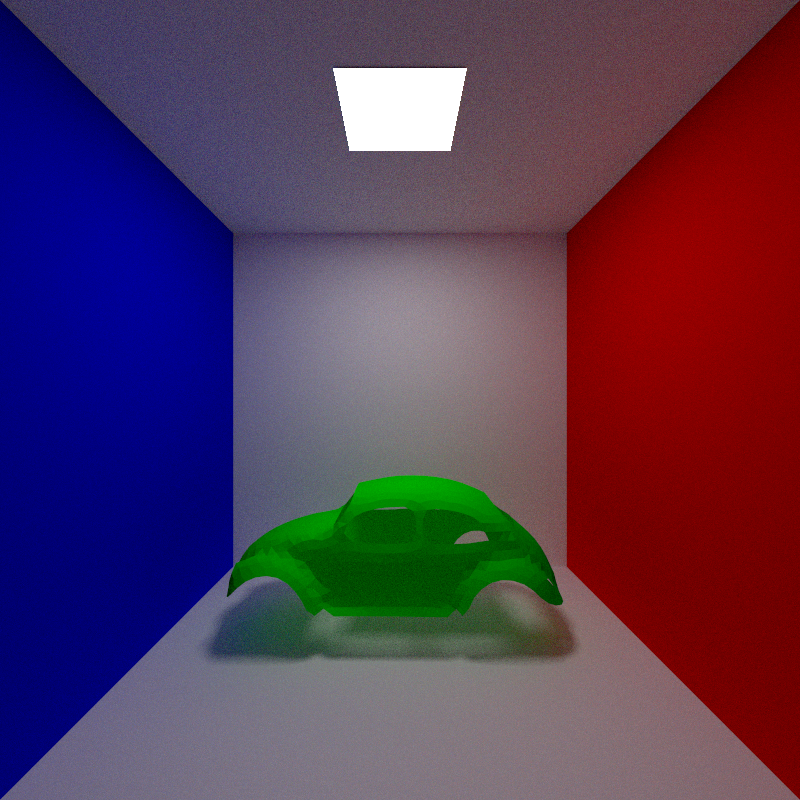
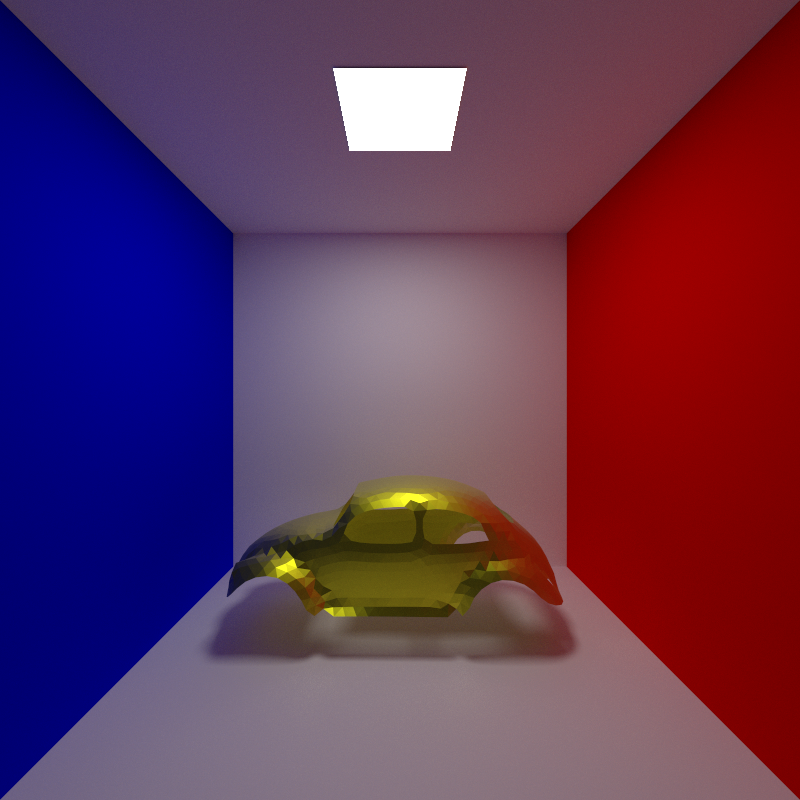
1.61

Changed region(s): [[0.25, 0.5625, 0.7188, 0.8438], [0.7188, 0.625, 0.8125, 0.75]]

diff --git a/RayTracing/RayTracing.cpp b/RayTracing/RayTracing.cpp
@@ -26,10 +26,7 @@ using std::make_unique;
 using std::shared_ptr;
 using std::vector;
 
-
-
-
-void Cornellbox(shared_ptr<Scene> &scene)
+void Cornellbox(shared_ptr<Scene> &scene, Transform &lookat)
 {
 	shared_ptr<Texture<Float>> bump = make_shared<ConstantTexture<Float>>(0.0f);
 	Spectrum purple; purple[0] = 0.35; purple[1] = 0.12; purple[2] = 0.48;
@@ -73,7 +70,7 @@ void Cornellbox(shared_ptr<Scene> &scene)
 	tri_World2ObjectTri = Inverse(tri_Object2WorldTri);
 	std::vector<std::shared_ptr<Shape>> tris = CreateTriangleMesh(&tri_Object2WorldTri, &tri_World2ObjectTri, false, nTriangles, vertexIndices, nVertices, P, nullptr, nullptr, nullptr, nullptr);
 	for (int i = 0; i < nTriangles; ++i)
-		prims.push_back(make_shared<GeometricPrimitive>(tris[i], mgreen, area));
+		prims.push_back(make_shared<GeometricPrimitive>(tris[i], metal, area));
 	delete []P;
 	delete []vertexIndices;
 
@@ -153,9 +150,14 @@ void Cornellbox(shared_ptr<Scene> &scene)
 
 	scene=make_shared<Scene>(make_shared<BVHAccel>(prims), lights);
 
+	Point3f eye(2.5f, 2.5f, 6.0f);
+	Point3f look(2.5f, 2.5f, 0.0f);
+	Vector3f up(0.0f, 1.0f, 0.0f);
+	lookat = LookAt(Vector3f(eye), Vector3f(look), up);
+
 }
 
-void MetalRoughSphere(shared_ptr<Scene> &scene)
+void MetalRoughSphere(shared_ptr<Scene> &scene,Transform &lookat)
 {
 	Spectrum LightColor(1.0f, 1.0f, 1.0f);
 	shared_ptr<Texture<Float>> sigma = make_shared<ConstantTexture<Float>>(0.0f);
@@ -172,25 +174,7 @@ void MetalRoughSphere(shared_ptr<Scene> &scene)
 	shared_ptr<Light>infinityLight = make_shared<InfiniteAreaLight>(InfinityLightToWorld,power,10,hdrFile);
 	lights.push_back(infinityLight);
 
-	//const float yPos_AreaLight = -16;
-	//float len = 10;
-	//int nTrianglesAreaLight = 2;
-	//int vertexIndicesAreaLight[6] = { 0,1,2,3,4,5 };
-	//int nVerticesAreaLight = 6;
-	//Point3f P_AreaLight[6] = {
-	//		Point3f(-len,yPos_AreaLight,len),Point3f(-len,yPos_AreaLight,-len),Point3f(len,yPos_AreaLight,len),
-	//		Point3f(len,yPos_AreaLight,len),Point3f(-len,yPos_AreaLight,-len),Point3f(len,yPos_AreaLight,-len) };
-	//Transform tri_Object2World_AreaLight;
-	//tri_Object2World_AreaLight = Translate(Vector3f(2.5f, 0.0f, 2.5f))*tri_Object2World_AreaLight;
-	//Transform tri_World2Object_AreaLight = Inverse(tri_Object2World_AreaLight);
-	//std::vector<std::shared_ptr<Shape>> meshAreaLight = CreateTriangleMesh(&tri_Object2World_AreaLight, &tri_World2Object_AreaLight, false, nTrianglesAreaLight, vertexIndicesAreaLight, nVerticesAreaLight, P_AreaLight, nullptr, nullptr, nullptr, nullptr);
-	//for (int i = 0; i < nTrianglesAreaLight; ++i)
-	//{
-	//	area = make_shared<DiffuseAreaLight>(tri_Object2World_AreaLight, Spectrum(7.f), 5, meshAreaLight[i], true);
-	//	lights.push_back(area);
-	//	prims.push_back(make_shared<GeometricPrimitive>(meshAreaLight[i], m1, area));
-	//}
-	Transform tri_ObjectWorldModel = RotateX(90);
+	Transform tri_ObjectWorldModel = RotateZ(180)*RotateY(180)*RotateX(-90);
 	//Transform tri_ObjectWorldModel = Translate(Vector3f(0.f,2.f,0.f))*RotateY(-30)*Scale(3, 3, 3);
 	ModelLoad ML;
 	string metalroughsphere = "C:\\glTF-Sample-Models-master\\2.0\\MetalRoughSpheres\\glTF\\MetalRoughSpheres.gltf";
@@ -198,49 +182,30 @@ void MetalRoughSphere(shared_ptr<Scene> &scene)
 	ML.loadModel(metalroughsphere, tri_ObjectWorldModel);
 	Spectrum black(1.f, 1.f, 1.f);
 	shared_ptr<Material> mblack = make_shared<MatteMaterial>(make_shared<ConstantTexture<Spectrum>>(black), sigma, bump);
-	ML.buildNoTextureModel(tri_ObjectWorldModel, prims, mblack);
+	//ML.buildNoTextureModel(tri_ObjectWorldModel, prims, mblack);
+	ML.buildTextureModel(tri_ObjectWorldModel, prims);
 	scene = make_shared<Scene>(make_shared<BVHAccel>(prims), lights);
+
+	Vector3f up(0.0f, 1.0f, 0.0f);
+	//lookat = LookAt(Vector3f(2.f, 3.f, 3.0f), Vector3f(0.f, 2.f, 0.0f), up);
+	lookat = LookAt(Vector3f(0.f, 0.f, 24.0f), Vector3f(0.f, 0.f, 0.0f), up);
+	//lookat = LookAt(Vector3f(0.f, 0.f, -24.0f), Vector3f(0.f, 0.f, 0.0f), up);
 }
 
 int main()
 {
-	//std::ofstream fout("image.ppm");
-
-	// Image
-	//auto aspect_ratio = 1;
-	//int image_width = 300;
-	//int samples_per_pixel = 100;
-	//int max_depth = 50;
-
-	// World
-	//hittable_list world;
-	//Vector3f lookfrom;
-	//Vector3f lookat;
-	//auto vfov = 40.0;
-	//auto aperture = 0.0;
-	//color background(0, 0, 0);
-
-	// Render
-	//const int image_height = static_cast<int>(image_width / aspect_ratio);
-	//fout << "P3\n" << image_width << ' ' << image_height << "\n255\n";
-
 	std::shared_ptr<Scene>worldScene;
-	Cornellbox(worldScene);
-	//MetalRoughSphere(worldScene);
-	//worldScene = std::make_unique<Scene>(make_unique<BVHAccel>(prims),lights);
+	Transform lookat;
+	Cornellbox(worldScene, lookat);
+	//MetalRoughSphere(worldScene,lookat);
 
-	shared_ptr<Camera> cam;
-	Point3f eye(2.5f, 2.5f, 6.0f);
-	Point3f look(2.5f, 2.5f, 0.0f);
-	Vector3f up(0.0f, 1.0f, 0.0f);
-	Transform lookat = LookAt(Vector3f(eye), Vector3f(look), up);
-	//Transform lookat = LookAt(Vector3f(0.f, 0.f, 21.0f), Vector3f(0.f, 0.f, 0.0f), up);
-	//Transform lookat = LookAt(Vector3f(2.f, 3.f, 3.0f), Vector3f(0.f, 2.f, 0.0f), up);
 	Transform Camera2World = Inverse(lookat);
 
-	int image_width=800, image_height=800;
-	cam = shared_ptr<Camera>(CreatePerspectiveCamera(Camera2World, image_width, image_height));
-	shared_ptr<Sampler> ss = make_unique<StratifiedSampler>(8,8,true,1);
+	int image_width=1920, image_height=1080;
+	image_width = 800, image_height = 800;
+	shared_ptr<Camera> cam = shared_ptr<Camera>(CreatePerspectiveCamera(Camera2World, image_width, image_height));
+	
+	shared_ptr<Sampler> ss = make_unique<StratifiedSampler>(32,32,true,1);
 	Bounds2i pixelBounds;
 	shared_ptr<Integrator>wSI=make_shared<WhittedIntegrator>(5,cam,ss, pixelBounds);
 	shared_ptr<Integrator>pSI = make_shared<PathIntegrator>(10, cam, ss, pixelBounds,1.f);

diff --git a/RayTracing/include/core/modelload.cpp b/RayTracing/include/core/modelload.cpp
@@ -11,15 +11,8 @@ void ModelLoad::processNode(aiNode *node, const aiScene *scene, const Transform 
 		aiMesh *mesh = scene->mMeshes[node->mMeshes[i]];
 		meshes.push_back(processMesh(mesh, scene, ObjectToWorld));
 
-		aiMaterial* material = scene->mMaterials[mesh->mMaterialIndex];
-		for (unsigned int i = 0; i < material->GetTextureCount(aiTextureType_DIFFUSE); ++i)
-		{
-			aiString str;
-			material->GetTexture(aiTextureType_DIFFUSE, i, &str);
-			string filename = str.C_Str();
-			texName.push_back(filename);
-		}
 	}
+
 	for (unsigned int i = 0; i < node->mNumChildren; ++i)
 		processNode(node->mChildren[i], scene, ObjectToWorld);
 
@@ -28,11 +21,14 @@ void ModelLoad::processNode(aiNode *node, const aiScene *scene, const Transform 
 void ModelLoad::loadModel(std::string path, const Transform &ObjectToWorld)
 {
 	Assimp::Importer import;
-	const aiScene *scene = import.ReadFile(path, aiProcess_Triangulate | aiProcess_FlipUVs);
-	std::cout << import.GetErrorString() << std::endl;;
+	const aiScene *scene = import.ReadFile(path, aiProcess_Triangulate | aiProcess_FlipUVs| aiProcess_MakeLeftHanded);
+	//std::cout << import.GetErrorString() << std::endl;;
 	if (!scene || scene->mFlags&AI_SCENE_FLAGS_INCOMPLETE || !scene->mRootNode)
+	{
+		std::cout << "ERROR::ASSIMP::" << import.GetErrorString() << std::endl;
 		return;
-	directory = path.substr(0, path.find_last_of('/'));
+	}
+	directory = path.substr(0, path.find_last_of('\\'));
 	processNode(scene->mRootNode, scene, ObjectToWorld);
 }
 
@@ -86,6 +82,33 @@ shared_ptr<TriangleMesh> ModelLoad::processMesh(aiMesh *mesh, const aiScene *sce
 	delete[] S;
 	delete[] N;
 	delete[] uv;
+
+	aiMaterial* material = scene->mMaterials[mesh->mMaterialIndex];
+	int count = material->GetTextureCount(aiTextureType_DIFFUSE);
+	if (count == 0)
+		diffTexName.push_back("");
+	else {
+		for (unsigned int i = 0; i < count; ++i)
+		{
+			aiString str;
+			material->GetTexture(aiTextureType_DIFFUSE, i, &str);
+			string filename = str.C_Str();
+			diffTexName.push_back(filename);
+		}
+	}
+	count = material->GetTextureCount(aiTextureType_UNKNOWN);
+	if (count == 0)
+		specTexName.push_back("");
+	else {
+		for (unsigned int i = 0; i < count; ++i)
+		{
+			aiString str;
+			material->GetTexture(aiTextureType_UNKNOWN, i, &str);
+			string filename = str.C_Str();
+			specTexName.push_back(filename);
+		}
+	}
+
 	return a;
 }
 
@@ -111,12 +134,16 @@ void ModelLoad::buildTextureModel(Transform& tri_Object2World, vector<shared_ptr
 	Transform tri_World2Object = Inverse(tri_Object2World);
 	for (int i = 0; i < meshes.size(); ++i)
 	{
-		string filename = directory + "/" + texName[i];
-		shared_ptr<Material> material = getDiffuseMaterial(filename);
+		string filename1 = directory + "\\" + diffTexName[i];
+		string filename2 = directory + "\\" + specTexName[i];
+		shared_ptr<Material> material = getDiffuseMaterial(filename1);
+		//shared_ptr<Material> material = getPlasticMaterial(filename1, filename2);
 		for (int j = 0; j < meshes[i]->nTriangles; ++j)
 		{
 			shared_ptr<TriangleMesh> meshPtr = meshes[i];
 			prims.push_back(make_shared<GeometricPrimitive>(make_shared<Triangle>(&tri_Object2World, &tri_World2Object, false, meshPtr, j), material, nullptr));
 		}
+		//break;
 	}
 }
+

diff --git a/RayTracing/include/core/integrator.cpp b/RayTracing/include/core/integrator.cpp
@@ -496,19 +496,14 @@ unsigned char *data;
 vector<thread>pool;
 //mutex mt;
 //std::condition_variable cv;
-int thread_count=1;
+int thread_count=8;
 int iw, ih;
 int maxpos;
 int now;
 mutex out_mt;
-vector<int>test;
 const Scene *sc;
 void SamplerIntegrator::render_pixel(int nowpos)
 {
-	//{
-	//std::unique_lock<mutex> loc(out_mt);
-	//test[nowpos]++;
-	//}
 		int j = nowpos / iw, i = nowpos - j * iw;
 		if (i == iw - 1 && j % 10 == 0)
 			cout << j << endl;
@@ -545,24 +540,13 @@ void SamplerIntegrator::Render(const Scene &scene,int image_width,int image_heig
 	ih = image_height;
 	sc = &scene;
 	Preprocess(scene, *sampler);
-	//std::ofstream fout("image.ppm");
 	//int image_height = 300;
 	//int image_width = 300;
-	//fout << "P3\n" << image_width << ' ' << image_height << "\n255\n";
 	data = new unsigned char[image_height*image_width*3];
 	maxpos = image_height * image_width;
-	//test.resize(maxpos + 10);
 	for (int i = 1; i <= thread_count-1; ++i)
 	{
 		pool.push_back(thread([&] {
-			//{
-			//	std::unique_lock<mutex> loc(mt);
-			//	thread_count--;
-			//	if (!thread_count)
-			//		cv.notify_all();
-			//	else
-			//		cv.wait(loc);
-			//}
 			{
 				std::unique_lock<mutex> loc(out_mt);
 				while (now < maxpos)
@@ -576,14 +560,6 @@ void SamplerIntegrator::Render(const Scene &scene,int image_width,int image_heig
 			}
 		}));
 	}
-	//{
-	//	std::unique_lock<mutex> loc(mt);
-	//	thread_count--;
-	//	if (!thread_count)
-	//		cv.notify_all();
-	//	else
-	//		cv.wait(loc);
-	//}
 	{
 		std::unique_lock<mutex> loc(out_mt);
 		while (now < maxpos)

diff --git a/RayTracing/include/core/modelload.h b/RayTracing/include/core/modelload.h
@@ -18,6 +18,8 @@ public:
 	vector<shared_ptr<TriangleMesh>> meshes;
 	string directory;
 	vector<string>texName;
+	vector<string>diffTexName;
+	vector<string>specTexName;
 
 	void loadModel(string path, const Transform &ObjectToWorld);
 	void processNode(aiNode *node, const aiScene *scene, const Transform &ObjectToWorld);
@@ -40,5 +42,19 @@ public:
 	return make_shared<MatteMaterial>(Kt, sigmaRed, bumpMap);
 }
 
-
+ inline shared_ptr<Material> getPlasticMaterial(string diffFilename,string specFilename)
+ {
+	 unique_ptr<TextureMapping2D> map1 = make_unique<UVMapping2D>(1.f, 1.f, 0.f, 0.f);
+	 unique_ptr<TextureMapping2D> map2 = make_unique<UVMapping2D>(1.f, 1.f, 0.f, 0.f);
+	 ImageWrap wrapMode = ImageWrap::Repeat;
+	 bool trilerp = false;
+	 Float maxAniso = 8.f;
+	 Float scale = 1.f;
+	 bool gamma = false;
+	 shared_ptr<Texture<Spectrum>> plasticKd = make_shared<ImageTexture<RGBSpectrum, Spectrum>>(std::move(map1), diffFilename, trilerp, maxAniso, wrapMode, scale, gamma);
+	 shared_ptr<Texture<Spectrum>> plasticKr = make_shared<ImageTexture<RGBSpectrum, Spectrum>>(std::move(map2), specFilename, trilerp, maxAniso, wrapMode, scale, gamma);
+	 shared_ptr<Texture<Float>> plasticRoughness = make_shared<ConstantTexture<Float>>(1.f);
+	 shared_ptr<Texture<Float>> bumpMap = make_shared<ConstantTexture<Float>>(0.0f);
+	 return make_shared<PlasticMaterial>(plasticKd, plasticKr,plasticRoughness, bumpMap,true);
+ }
 #endif

diff --git a/RayTracing/include/core/imagemap.cpp b/RayTracing/include/core/imagemap.cpp
@@ -28,12 +28,12 @@ MIPMap<Tmemory> *ImageTexture<Tmemory, Treturn>::GetTexture(
 
 	// Flip image in y; texture coordinate space has (0,0) at the lower
 	// left corner.
-	for (int y = 0; y < resolution.y / 2; ++y)
-		for (int x = 0; x < resolution.x; ++x) {
-			int o1 = y * resolution.x + x;
-			int o2 = (resolution.y - 1 - y) * resolution.x + x;
-			std::swap(texels[o1], texels[o2]);
-		}
+	//for (int y = 0; y < resolution.y / 2; ++y)
+	//	for (int x = 0; x < resolution.x; ++x) {
+	//		int o1 = y * resolution.x + x;
+	//		int o2 = (resolution.y - 1 - y) * resolution.x + x;
+	//		std::swap(texels[o1], texels[o2]);
+	//	}
 
 	MIPMap<Tmemory> *mipmap = nullptr;
 	if (texels) {

diff --git a/RayTracing/include/core/reflection.h b/RayTracing/include/core/reflection.h
@@ -187,7 +187,6 @@ public:
 	Float Pdf(const Vector3f &wo, const Vector3f &wi,
 		BxDFType flags = BSDF_ALL) const;
 	//std::string ToString() const;
-
 	// BSDF Public Data
 	const Float eta;
 
@@ -295,6 +294,13 @@ public:
 		R(R),
 		distribution(distribution),
 		fresnel(fresnel) {}
+	~MicrofacetReflection()
+	{
+		if (fresnel != nullptr)
+			delete fresnel;
+		if (distribution != nullptr)
+			delete distribution;
+	}
 	Spectrum f(const Vector3f &wo, const Vector3f &wi) const;
 	Spectrum Sample_f(const Vector3f &wo, Vector3f *wi, const Point2f &u,
 		Float *pdf, BxDFType *sampledType) const;

diff --git a/RayTracing/include/core/camera.cpp b/RayTracing/include/core/camera.cpp
@@ -66,7 +66,7 @@ PerspectiveCamera *CreatePerspectiveCamera(const Transform &cam2world,int image_
 {
 	Float lensradius = 0.0f;
 	Float focaldistance = 0.0f;
-	Float frame = 300.f/300.f;
+	Float frame = (float)image_width / (float)image_height;
 	Bounds2f screen;
 	if (frame > 1.f) {
 		screen.pMin.x = -frame;

diff --git a/RayTracing/include/core/reflection.cpp b/RayTracing/include/core/reflection.cpp
@@ -156,7 +156,6 @@ Spectrum LambertianReflection::f(const Vector3f &wo, const Vector3f &wi) const {
 }
 
 
-
 // BSDF Method Definitions
 Spectrum BSDF::f(const Vector3f &woW, const Vector3f &wiW,
 	BxDFType flags) const {
